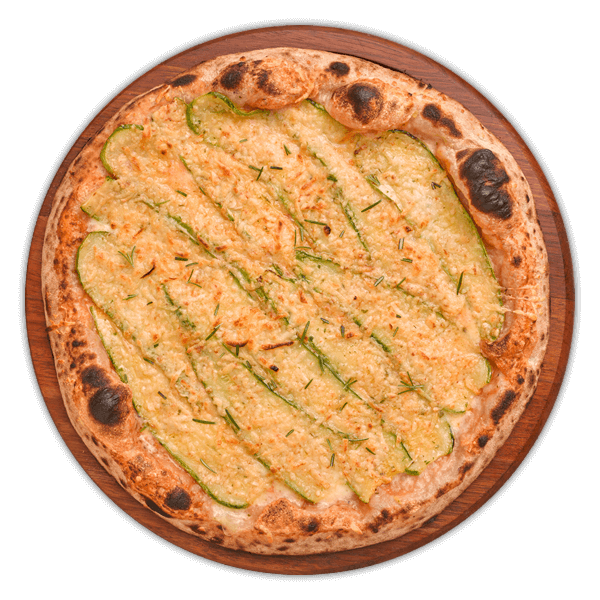
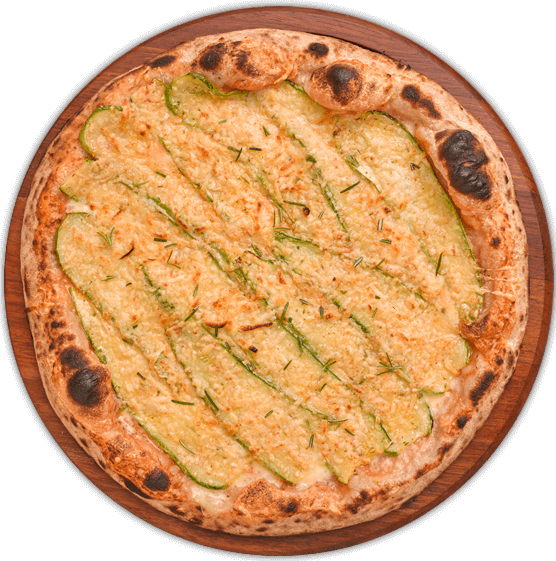
Add files via upload

diff --git a/pizza-sala9-tds/index.html b/pizza-sala9-tds/index.html
@@ -17,7 +17,7 @@
             <img src="telefone.png" alt="telefone">
             <a href="tel:4237839437" class="telemensagem">(42) 3783-9437</a>
             <img src="imagens.png" alt="imagens">
-            <a href="(41) 3641-1621" class="what">(41) 3641-1621</a>
+            <a href="(42) 3641-1621" class="what">(42 ) 3641-1621</a>
         </div>
         <div class="text">
             <p>Matriz, Curitiba - PR, 82590-300</p>
@@ -57,6 +57,7 @@
 
     <div class="mudarinformacao2"></div>
     <div class="mudarinformacao3"></div>
+    
     <section class="segundo">
         <div class="Especiais">
             <h2>Pizzas <br> &nbsp; Especiais</h2>
@@ -71,6 +72,71 @@
                 <br>Pequena: R$35 | Média: R$45 | Grande: R$60</P>
             </div>
         </div>
+    </section>
+
+    <div class="mudarinformacao4"></div>
+    <div class="mudarinformacao5"></div>
+
+    <section class="terceiro">
+        <div class="doce">
+            <h2>Pizzas <br> &nbsp; &nbsp;Doces</h2>
+            <div class="pizza-doce">
+                <P>Chocolate – Chocolate ao leite e granulado<br>
+                Morango com Chocolate – Chocolate ao leite e morangos<br>
+                Banana com Canela – Banana, açúcar e canela<br>
+                Romeu e Julieta – Goiabada com queijo<br>
+                Prestígio – Chocolate ao leite e coco ralado<br>
+                Sensação – Chocolate ao leite e morangos com leite condensado<br>
+                Nutella com Morango – Creme de avelã e morangos<br>
+                <br>Pequena: R$28 | Média: R$38 | Grande: R$48</P>
+                <img src="doceparavoce.png" alt="pizzadoce">
+            </div>
+        </div>
+    </section>
+    <div class="mudarinformacao6"></div>
+    <div class="mudarinformacao7"></div>
+    <section class="quatro">
+        <div class="bebidas">
+            <h2>Bebidas</h2>
+            <div class="bebidas1">
+                <img src="dolly1.png" alt="dolly1">
+                <P>Dolly – R$6,90<br>
+                Refrigerante lata – R$6<br>
+                Refrigerante 2L – R$12<br>
+                Suco natural – R$8<br>
+                Água – R$4<br>
+                Guaraná 600ml – R$7<br>
+                Água com gás – R$5<br>
+                Chá gelado – R$6<br>
+                Energético – R$12<br>
+                H2OH! – R$7 <br>
+                Água de coco – R$8 <br> 
+                Refrigerante zero – R$6<br>     
+                Vitamina de frutas – R$10<br>
+                Milk-shake – R$15<br>         
+                Café gelado – R$9</P>
+                <img src="dolly.png" alt="dolly">
+            </div>
+        </div>
+    </section>
+    <div class="mudarinformacao8"></div>
+    <div class="mudarinformacao9"></div>
+    <section class="quinta">
+         <footer >
+        <div class="text1">
+            <p>&copy;GUILHERME ALVES RODRIGUES</p>
+        </div>
+        <div class="text">
+            <div class="text2"
+                <p>pizzai.pietr@gmail.com</p>
+                <p>@ipietrpizzaria</p>
+            </div>
+            <div> 
+                <p>(41) 3783-9437</p>
+                <p>(41) 3641-1621</p>
+            </div>
+        </div>
+        </footer>
     </section>
 </body>
 </html>

diff --git a/pizza-sala9-tds/style.css b/pizza-sala9-tds/style.css
@@ -5,6 +5,7 @@ body{
     background: #370D0D;
     color: #fff;
     font-family:Italiana;
+    padding: 0;
 }
 
 .logo{
@@ -16,7 +17,7 @@ body{
 }
 .logo img[alt="pizza1"]{
     display:flow-root ;
-    max-width:400px ;
+    max-width:1600px ;
     max-height: 400px;
     margin: 0;
     
@@ -129,6 +130,7 @@ body{
 }
 
 .primeiroSabor{
+    width: 100%;
     padding-bottom: 50px;
     margin: 0;
     justify-self: center;
@@ -136,7 +138,6 @@ body{
 .tradicionais{
     margin: 0;
     background: #D9D9D9;
-    width: 1514px;
     height: 680px;
 }
 .tradicionais h2{
@@ -182,19 +183,17 @@ body{
 .mudarinformacao3{
     width: 100%;
     height: 50px;
-    background: #6A1B9A;
+    background: #EF6C00;
     margin-top: 40px;
 }
 
 .segundo{
-    
+    width: 100%;
     padding-bottom: 50px;
     justify-self: center;
 }
 .Especiais{
-    
     background: #D9D9D9;
-    width: 1514px;
     height: 680px;
 }
 .Especiais h2{
@@ -218,9 +217,138 @@ body{
 }
 .pizza-especiais img[alt="Especiais"]{
     position: absolute;
-    top: 2495px;
+    top: 2545px;
     left: 0;
     margin: 0;
-    width: 700px;
-    height: 700px;
+    width: 650px;
+    height: 650px;
+}
+.mudarinformacao4{
+    width: 100%;
+    height: 50px;
+    background: #EF6C00;
+}
+.mudarinformacao5{
+    width: 100%;
+    height: 50px;
+    background: #6A1B9A;
+    margin-top: 40px;
+}
+.terceiro{
+    width: 100%;
+    padding-bottom: 50px;
+    justify-self: center;
+}
+.doce{
+    background: #D9D9D9;
+    height: 680px;
+}
+.doce h2{
+    padding-top: 40px;
+    padding-left:180px;
+    color: #000;
+    font-size:64px;
+    margin-bottom: 0;
+}
+.pizza-doce{
+    
+    display: flex;
+    margin: 0;
+}
+.pizza-doce p{
+    color: #000;
+    font-family: inter;
+    font-size: 24px;
+    padding-left: 150px;
+    padding-top: 30px;
+}
+.pizza-doce img[alt="pizzadoce"]{
+    position: absolute;
+    top: 3465px;
+    right: 0;
+    margin: 0;
+    width: 650px;
+    height: 650px;
+    z-index: 1;
+}
+.mudarinformacao6{
+    width: 100%;
+    height: 50px;
+    background: #6A1B9A;
+    
+}
+.mudarinformacao7{
+    width: 100%;
+    height: 50px;
+    background: #1565C0;
+    margin-top: 40px;
+}
+.quatro{
+    width: 100%;
+    padding-bottom: 50px;
+    justify-self: center;    
+}
+.bebidas{
+    background: #D9D9D9;
+    height: 730px;
+}
+.bebidas h2{
+    padding-top: 40px;
+    justify-self: center;
+    color: #000;
+    font-size:64px;
+    margin-bottom: 0;
+}
+.bebidas1{
+    display: flex;
+    margin: 0;
+    justify-content: space-between
+}
+.bebidas1 P{
+     color: #000;
+    font-family: inter;
+    font-size: 24px;
+    justify-self: center;
+    text-align: center;
+    padding-top: 40px;
+    z-index: 2;
+}
+.bebidas1 img[alt="dolly1"]{
+    margin-top:-100px;
+    width: 400px;
+    height: 600px;
+    margin: 0;
+    z-index: 1;
+
+}
+.bebidas1 img[alt="dolly"]{
+    width: 400px;
+    height: 600px;
+    margin: 0;
+    z-index: 1;
+}
+.mudarinformacao8{
+    width: 100%;
+    height: 50px;
+    background: #1565C0;
+    
+}
+.mudarinformacao9{
+    width: 100%;
+    height: 50px;
+    background: #ffffff;
+    margin-top: 40px;
+}
+.quinta{
+    margin: 0;
+    padding-top: 35px;
+}
+footer{
+    background: #000;
+}
+.text1{
+    margin: 0;
+}
+.text1{
+    margin: 0;
 }
